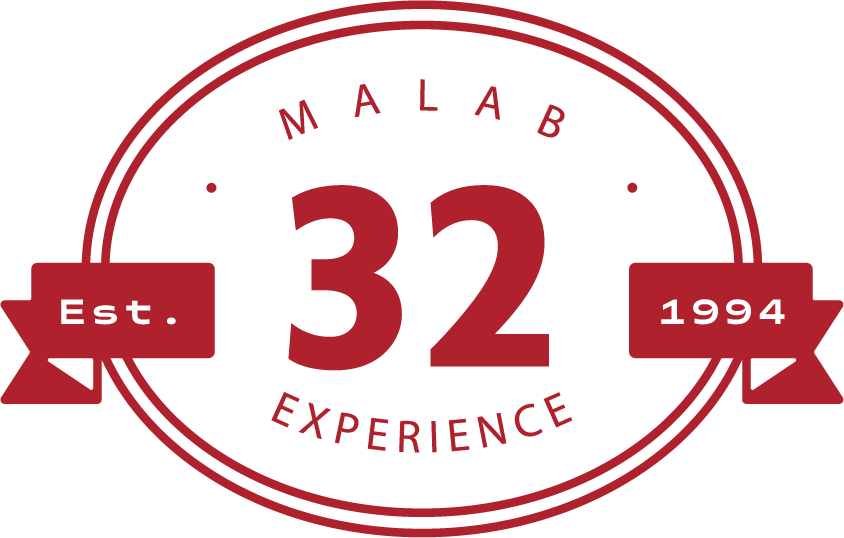
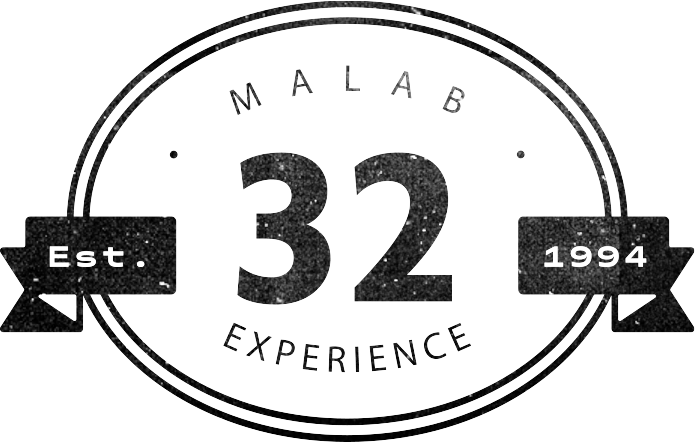
Atualiza Selo Malab com acabamento desgastado nativo
Substitui o arquivo do selo por uma versão já preta e com textura
de desgaste aplicada na própria imagem, removendo o filtro
brightness-0 que achatava esse acabamento.

diff --git a/src/components/AboutSection.tsx b/src/components/AboutSection.tsx
@@ -78,7 +78,7 @@ export const AboutSection = () => {
                 data-motion-number
                 src="/Selo_Malab.png"
                 alt="Selo Malab · Est. 1994"
-                className="mb-12 h-32 w-auto brightness-0 md:h-44"
+                className="mb-12 h-32 w-auto md:h-44"
               />
               <p className="editorial-quote mb-8 text-3xl italic leading-tight text-primary md:text-4xl">
                 <span data-motion-number>32</span> anos transformando Minas Gerais no epicentro cultural do Brasil.
